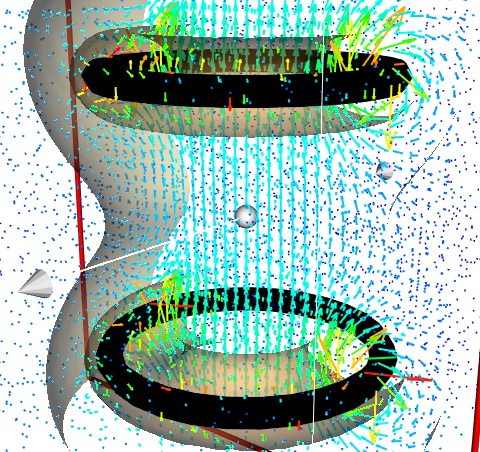
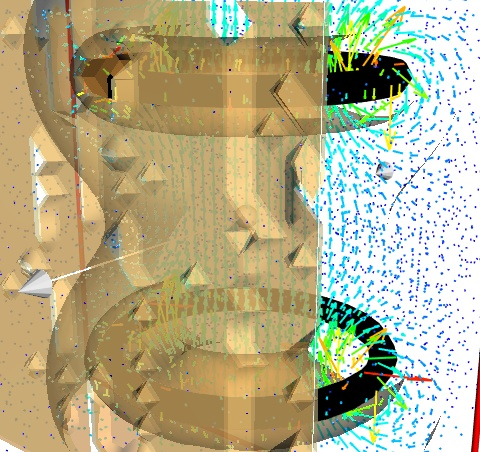
FIX: Read the back buffer when saving a scene to an image
TVTKScene read the front buffer, which is the on-screen one, so it had to raise
the scene window before every screenshot and the result still depended on the
window's state afterwards.  save() even documents the failure: an obscured
window is "likely to produce an image that does not reflect what is seen on
screen".

Reading the back buffer avoids all of that.  It is what VTK's own regression
tests and ParaView do (both BSD-3-Clause), and what the docs build needed, but
the fix belongs to everyone rather than being a docs-only workaround:

  https://github.com/Kitware/VTK/blob/master/Testing/Rendering/vtkTesting.cxx
  https://gitlab.kitware.com/paraview/paraview/-/blob/master/Remoting/Views/vtkSMViewProxy.cxx

vtkTesting also shows the part that is easy to miss: what is left in the back
buffer after a swap is undefined by the OpenGL spec, so the swap is held off
while the image is read and restored afterwards.  Without it the result is
nondeterministic -- tvtk_in_mayavi rendered differently about one run in five,
and with the swap held off it is byte-identical over 20 runs.

For users this means mlab.savefig no longer pulls the window to the front, and
a window that is obscured or has not finished painting no longer corrupts the
image.  Nobody's images change otherwise: with the window visible and painted
the two buffers hold the same pixels, byte-for-byte on test_plot3d and
julia_set.  What changes is that the capture no longer depends on the window's
[…]

diff --git a/docs/source/render_examples.py b/docs/source/render_examples.py
@@ -47,20 +47,6 @@ SKIP_EXAMPLES = {
 EXAMPLE_TIMEOUT = 60
 
 
-def dont_take_over_the_desktop():
-    """ Must run before anything builds a QApplication -- so before mayavi is
-        imported -- or Qt will already have made this a foreground application.
-
-        AA_PluginApplication tells Qt not to take NSApp over, which is what
-        pulls the process in front of whatever the user is working in.
-    """
-    from pyface.qt import QtCore
-
-    attribute = (getattr(QtCore.Qt, 'AA_PluginApplication', None)
-                 or QtCore.Qt.ApplicationAttribute.AA_PluginApplication)
-    QtCore.QCoreApplication.setAttribute(attribute, True)
-
-
 def keep_windows_in_background():
     """ Stops the windows we open from stealing focus and swallowing keystrokes.
 
@@ -75,12 +61,6 @@ def keep_windows_in_background():
     def enum(holder, name):
         # PyQt6 scopes these, PySide6 offers them both ways
         return getattr(QtCore.Qt, name, None) or getattr(holder, name)
-
-    # tvtk raises the scene window before every screenshot, because reading the
-    # front buffer means reading what is on screen; this reads the back buffer
-    # instead.  Private on purpose: end users keep the raising behaviour.
-    from tvtk.pyface import tvtk_scene
-    tvtk_scene._raise_to_screenshot = False
 
     # traitsui's dialogs and pyface's windows raise themselves too
     QtGui.QWidget.raise_ = lambda self: None
@@ -97,29 +77,8 @@ def keep_windows_in_background():
             self.setAttribute(no_activate, True)
             self.setWindowFlag(at_the_back, True)
         real_set_visible(self, visible)
-        if visible and self.isWindow():
-            # macOS pulls the process to the front again for each new window,
-            # dialogs especially, so push it back every time one appears
-            send_app_to_the_back()
 
     QtGui.QWidget.setVisible = set_visible
-
-
-def send_app_to_the_back():
-    """ Stops the process being the frontmost application on macOS.
-
-        An Accessory app owns windows but never becomes the active one, which
-        is what keeps the render from taking keystrokes.  Qt resets this
-        whenever it opens a window, so it has to be re-applied rather than set
-        once at startup.
-    """
-    if sys.platform != 'darwin':
-        return
-    try:
-        from AppKit import NSApplication
-    except ImportError:
-        return   # pyobjc is not installed; the Qt flags still do what they can
-    NSApplication.sharedApplication().setActivationPolicy_(1)  # Accessory
 
 
 def should_render(short_file_name, image_file):
@@ -264,9 +223,6 @@ def capture_in_subprocess(filename, image_file):
     here = os.path.dirname(os.path.abspath(__file__))
     code = ('import mayavi, tvtk.api, sys\n'          # bind before the doc
             'sys.path.insert(0, %r)\n'                # sources can shadow them
-            'from pyface.qt import QtCore\n'
-            'QtCore.QCoreApplication.setAttribute('
-            'QtCore.Qt.ApplicationAttribute.AA_PluginApplication, True)\n'
             'from render_examples import capture_one\n'
             'capture_one(%r, %r)\n' % (here, filename, image_file))
     subprocess.run([sys.executable, '-P', '-c', code],

diff --git a/tvtk/pyface/tvtk_scene.py b/tvtk/pyface/tvtk_scene.py
@@ -25,13 +25,6 @@ from traits.api import HasPrivateTraits, HasTraits, Any, Int, \
 from tvtk.pyface import light_manager
 
 
-# Private, for the docs build: see docs/source/render_examples.py.  Default
-# behaviour is unchanged -- a screenshot raises the scene window and reads the
-# front buffer.  Setting this False reads the back buffer instead, which does
-# not need the window raised and so does not steal focus.
-_raise_to_screenshot = True
-
-
 def set_magnification(w2if, magnification):
     if hasattr(w2if, 'magnification'):
         w2if.magnification = magnification
@@ -803,11 +796,17 @@ class TVTKScene(HasPrivateTraits):
         return self._interactor
 
     def _get_window_to_image(self):
-        front = not self.off_screen_rendering and _raise_to_screenshot
-        w2if = tvtk.WindowToImageFilter(read_front_buffer=front)
+        # Read the back buffer, not the front one.  The front buffer is
+        # whatever the window server is showing, so anything overlapping the
+        # window ends up in the saved image -- which is why this used to raise
+        # the window first, stealing focus every time a figure was saved.  VTK's
+        # own regression tests and ParaView (both BSD-3-Clause) read the back
+        # buffer for the same reason:
+        # https://github.com/Kitware/VTK/blob/master/Testing/Rendering/vtkTesting.cxx
+        # https://gitlab.kitware.com/paraview/paraview/-/blob/master/Remoting/Views/vtkSMViewProxy.cxx
+        # _exporter_write holds the buffer swap off while the read happens.
+        w2if = tvtk.WindowToImageFilter(read_front_buffer=False)
         set_magnification(w2if, self.magnification)
-        if _raise_to_screenshot:
-            self._lift()
         w2if.input = self._renwin
         return w2if
 
@@ -827,9 +826,14 @@ class TVTKScene(HasPrivateTraits):
         else:
             aa_frames = rw.multi_samples
             rw.multi_samples = self.anti_aliasing_frames
+        # What is left in the back buffer after a swap is undefined by the
+        # OpenGL spec, so do not let one happen while the image is read.
+        swap_buffers = rw.swap_buffers
+        rw.swap_buffers = False
         rw.render()
         ex.update()
         ex.write()
+        rw.swap_buffers = swap_buffers
         # Set the frames back to original setting.
         if hasattr(rw, 'aa_frames'):
             rw.aa_frames = aa_frames

diff --git a/docs/source/render_images.py b/docs/source/render_images.py
@@ -44,12 +44,6 @@ def use_ci_image_size():
 # when mlab_reference.py execs this file just to read IMAGE_DIR
 if __name__ == '__main__':
     use_ci_image_size()
-    # likewise: once Qt owns NSApp the process is a foreground application and
-    # every figure steals focus, so this cannot wait until rendering starts
-    from pyface.qt import QtCore
-    QtCore.QCoreApplication.setAttribute(
-        getattr(QtCore.Qt, 'AA_PluginApplication', None)
-        or QtCore.Qt.ApplicationAttribute.AA_PluginApplication, True)
 
 from mayavi import mlab                                            # noqa: E402
 from mayavi.scripts import mayavi2                                 # noqa: E402
@@ -130,8 +124,8 @@ def main():
     from render_examples import render_examples
     render_examples(render_images=True)
     print("Done generating the example pages")
-    # mlab.show keeps an event loop running once main() returns, and with
-    # AA_PluginApplication set Qt no longer owns NSApp, so nothing ever ends it
+    # main() is wrapped in mlab.show, which runs an event loop once it returns;
+    # nothing closes the last window, so say explicitly that we are finished
     from pyface.qt import QtGui
     app = QtGui.QApplication.instance()
     if app is not None:
